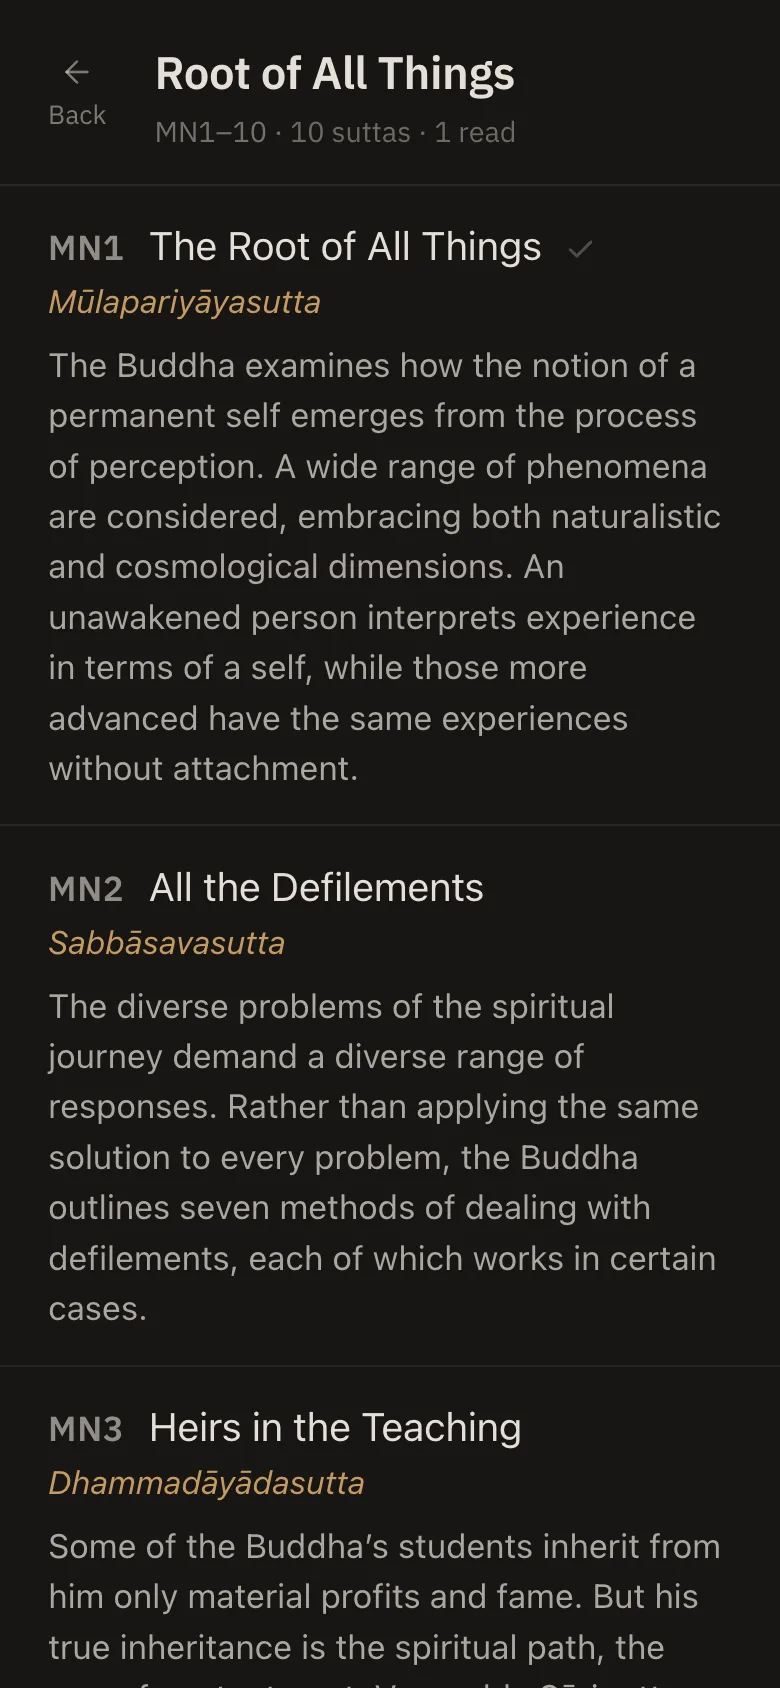
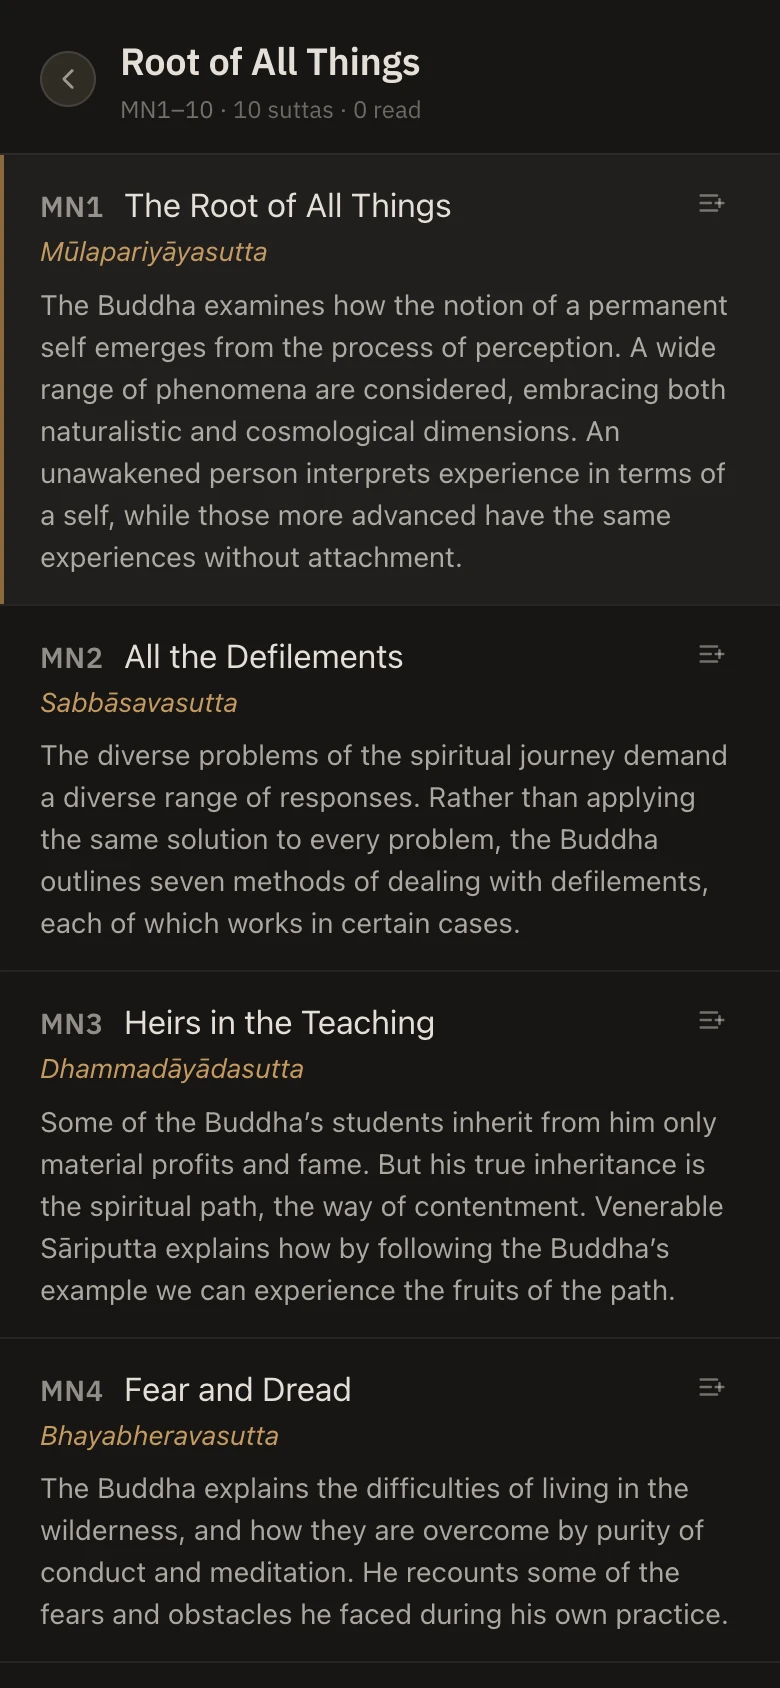
Help: update Library and Lists-while-reading screenshots and markers

diff --git a/web/src/pages/HelpPage.tsx b/web/src/pages/HelpPage.tsx
@@ -115,12 +115,14 @@ const SECTIONS: HelpSection[] = [
         name: 'library-items-mobile.webp',
         title: 'Inside a book',
         marks: [
-          [15.4, 2.6],
-          [84.1, 16.0],
+          [4.4, 2.5],
+          [48.4, 21.3],
+          [82.4, 12.0],
         ],
         steps: [
-          'Back to the collections.',
-          'A tick marks that you have already spent time here. Tap any row to start reading.',
+          'Go back.',
+          'Click a sutta to open it. A tick next to its title means you\'ve spent some time on it.',
+          'Add this sutta to a list.',
         ],
       },
     ],
@@ -261,14 +263,14 @@ const SECTIONS: HelpSection[] = [
         name: 'reader-chips-mobile.webp',
         title: 'Where it already is',
         marks: [
-          [22.7, 82.9],
-          [55.9, 10.4],
+          [36.7, 10.9],
+          [91.9, 65.5],
+          [21.6, 68.7],
         ],
         steps: [
-          'Lists this sutta is part of and number of highlights. Click a list ' +
-            'to navigate to it. Click the highlight count to open the Highlights side panel.',
-          'If you\'ve opened this sutta from a list, it is displayed here. Navigating to the next or previous ' +
-            'sutta will be within that list.',
+          'The current list you are in. Navigating back and forth between suttas will be within this list (see tip below).',
+          'Open the list picker.',
+          'Number of highlights on page. Click it to open the highlight panel.',
         ],
       },
       {
@@ -276,16 +278,14 @@ const SECTIONS: HelpSection[] = [
         name: 'lists-tab-mobile.webp',
         title: 'The Lists tab',
         marks: [
-          [21.1, 11.0],
-          [30.7, 16.0],
-          [45.7, 27.9],
-          [50.7, 31.8],
+          [23.3, 10.7],
+          [47.0, 17.4],
+          [47.6, 24.6],
         ],
         steps: [
-          'Type the nameo of a list or group that you\'d like to add this sutta too. Press Enter to toggle its membership.',
-          'Click a group to create another list or group within it.',
+          'Search for a list or create a new one.',
+          'Select a list to toggle its membership.',
           'Create a new list with that name.',
-          'Create a new group with that name.',
         ],
       },
     ],
